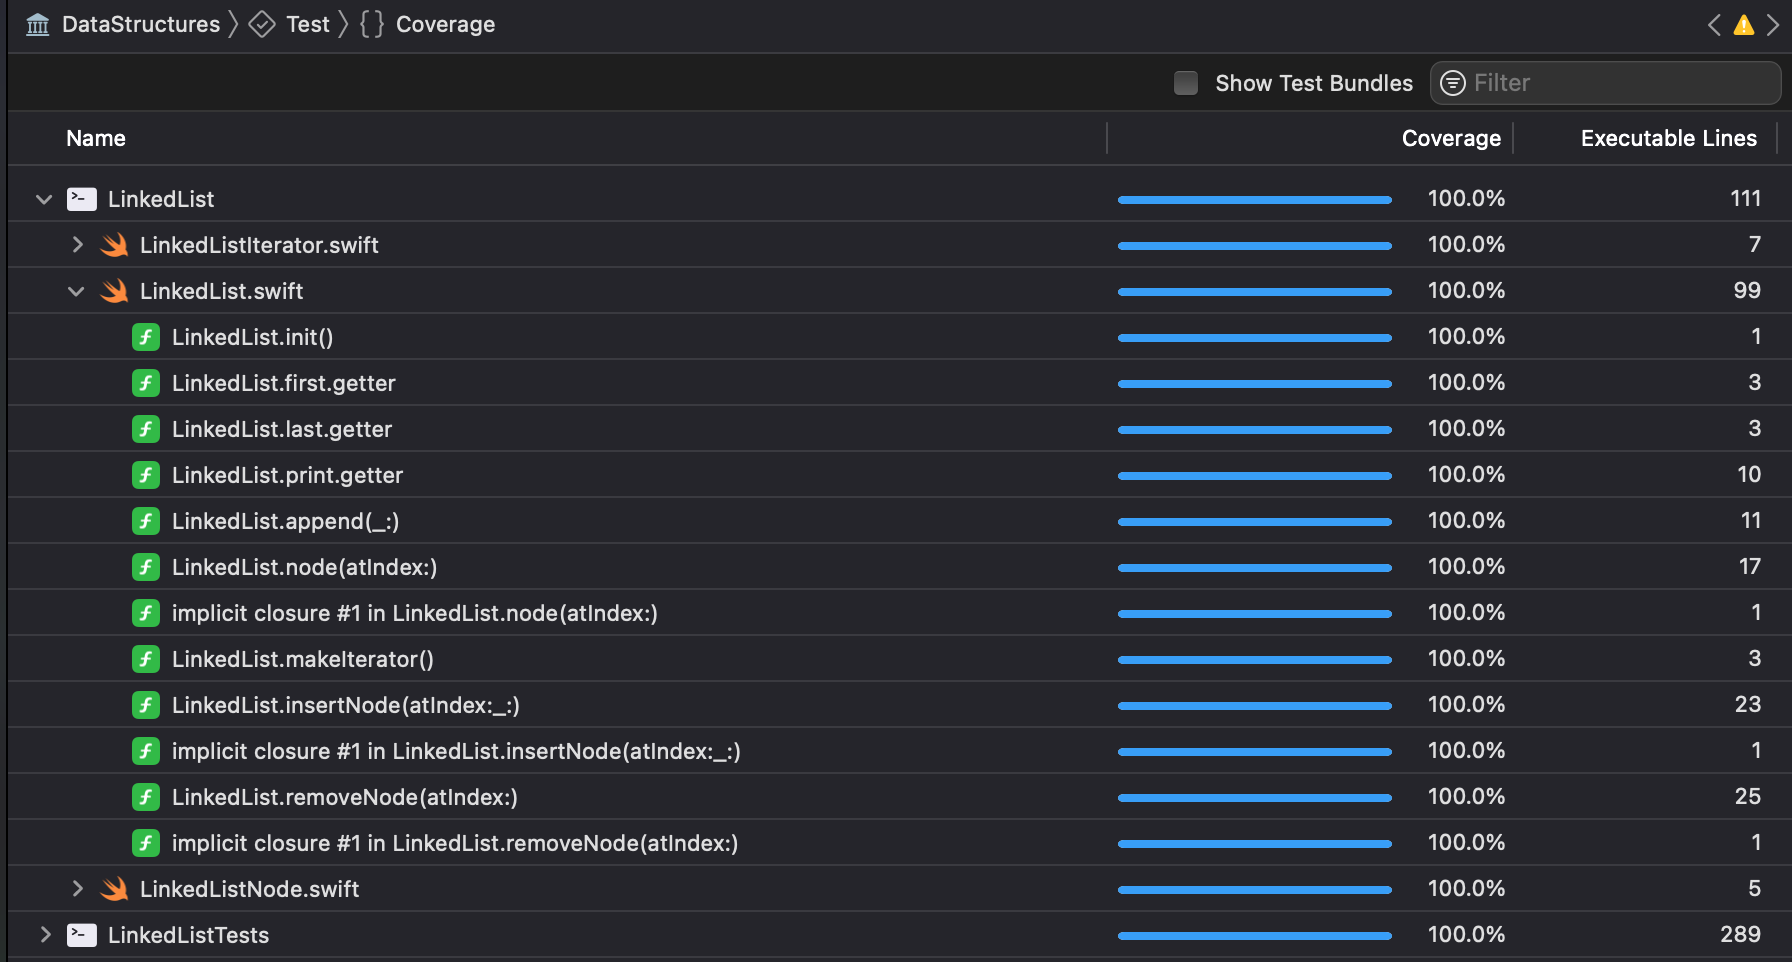
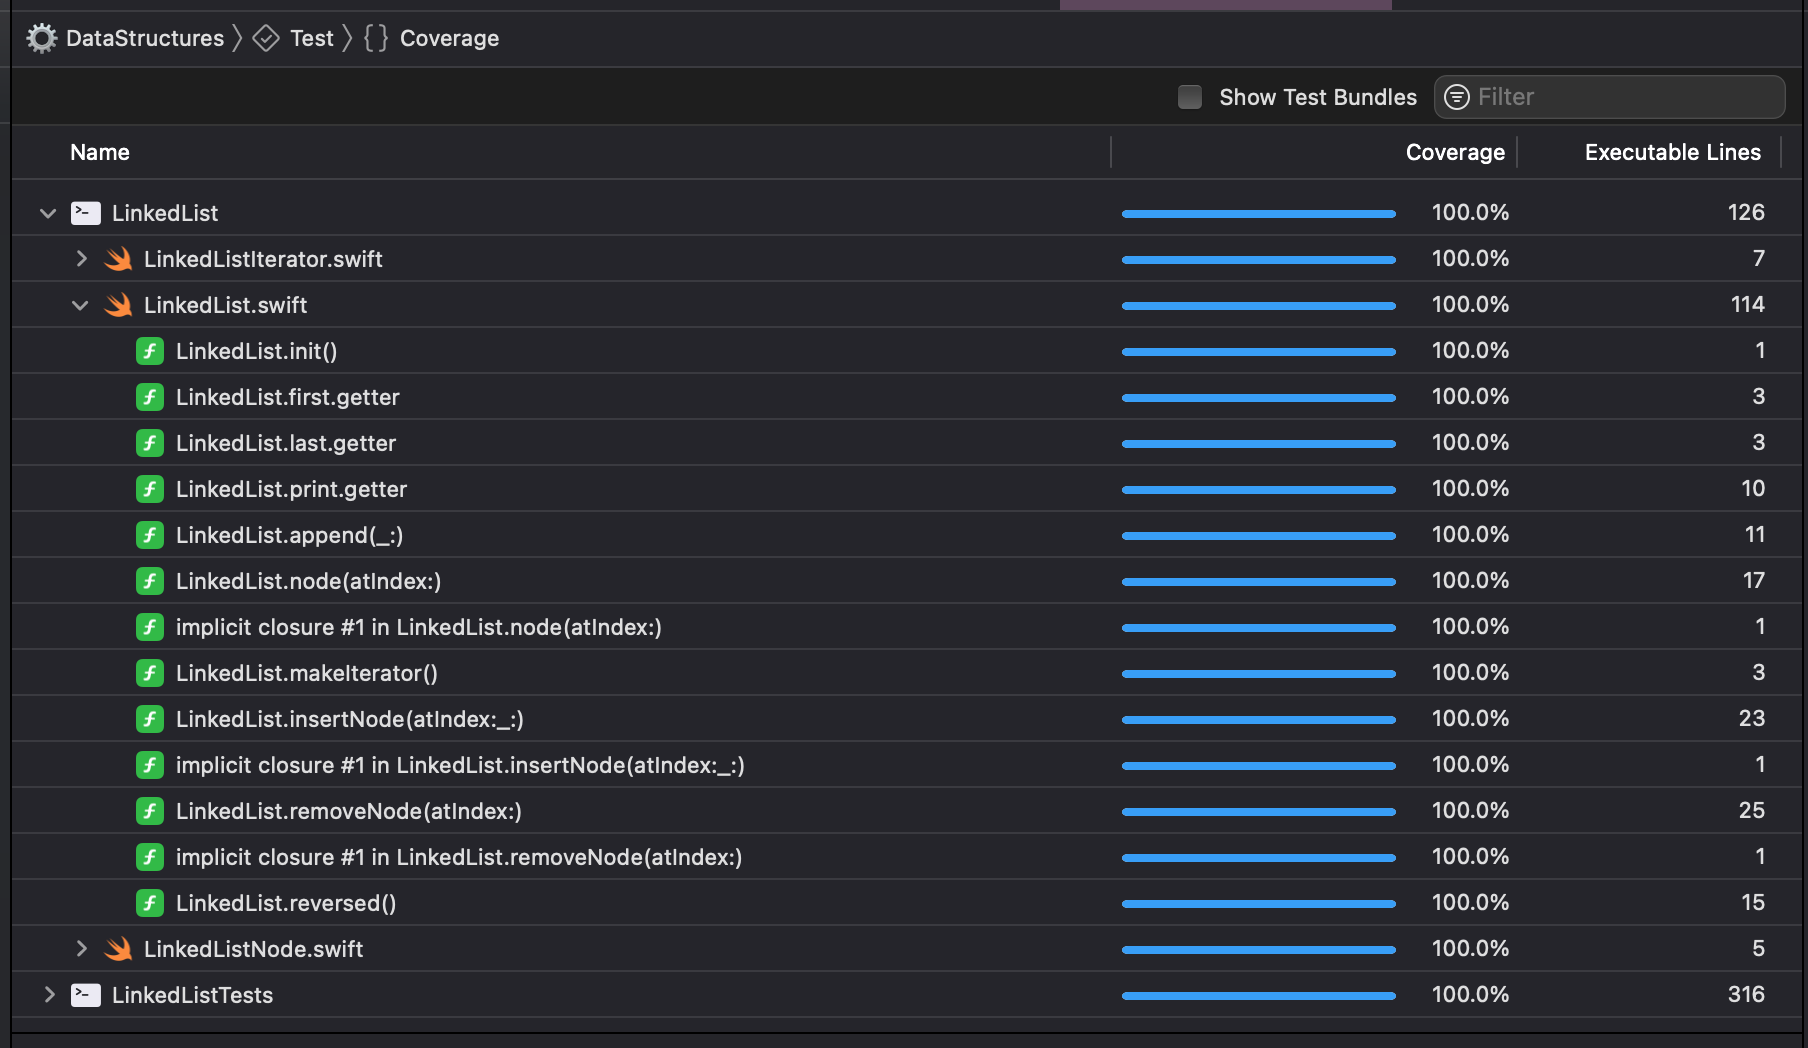
add reversed to linked list methods

diff --git a/Sources/DataStructures/LinkedList/LinkedList.swift b/Sources/DataStructures/LinkedList/LinkedList.swift
@@ -123,4 +123,21 @@ final public class LinkedList<T>: Sequence {
         return node
     }
     
+    func reversed() {
+        var ptr1 = head
+        var ptr2 = ptr1?.next
+        
+        ptr1?.next = nil
+        ptr1?.previous = ptr2
+        
+        while ptr2 != nil {
+            ptr2?.previous = ptr2?.next
+            ptr2?.next = ptr1
+            ptr1 = ptr2
+            ptr2 = ptr2?.previous
+        }
+        tail = head
+        head = ptr1
+    }
+    
 }

diff --git a/Tests/DataStructuresTests/LinkedListTests.swift b/Tests/DataStructuresTests/LinkedListTests.swift
@@ -154,5 +154,18 @@ final class LinkedListTests: XCTestCase {
         XCTAssert(nodeToDelete === deletedNode)
         
     }
+    
+    func testReverse() {
+        // Given
+        list.append("1")
+        list.append("2")
+        list.append("3")
+        // When
+        list.reversed()
+        // Then
+        XCTAssertEqual(list.print, "[3, 2, 1]")
+        XCTAssertEqual(list.last!.value, "1")
+        XCTAssertEqual(list.first!.value, "3")
+    }
 
 }

diff --git a/Sources/DataStructures/LinkedList/README.md b/Sources/DataStructures/LinkedList/README.md
@@ -13,6 +13,7 @@ Picture [*source*](https://www.geeksforgeeks.org/data-structures/linked-list/dou
 - [Node(atIndex:)](#nodeAt)
 - [InsertNode(atIndex:)](#insertAt)
 - [RemoveNode(atIndex:)](#removeAt)
+- [Reversed](#reversed)
 - [Syntax sugar](#syntax-sugar)
 - [Test coverage](#test-coverage)
 
@@ -75,6 +76,10 @@ Method that allow you to delete node at any position in list. Can return **nil**
 Complexity:
 - *O(1)* for deleting at start and end of list.
 - *O(index)* for deleting at other specific indicies.
+
+### Reversed
+Method that reverse list from head to tail. Change list order in it (update first & last).
+Complexity: *O(n)*
 
 ### Syntax sugar
 You can traverse full list as standart iterator for an array
